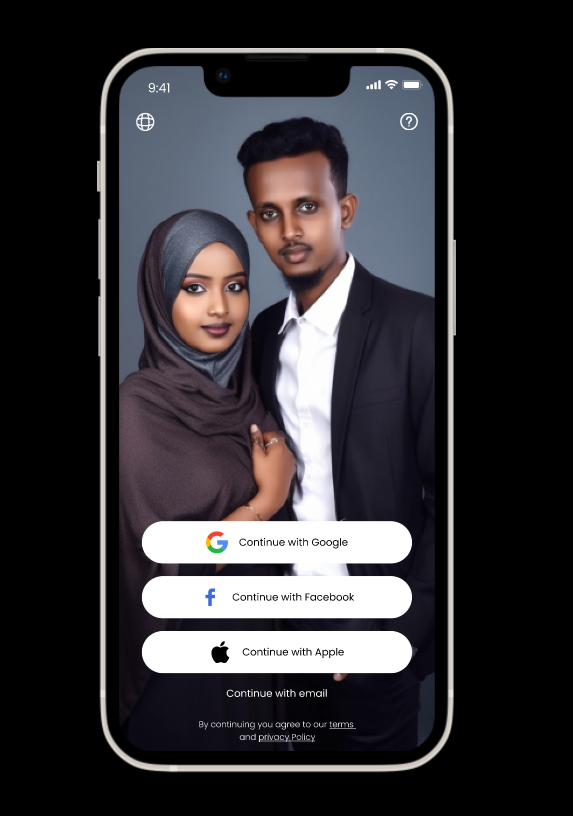
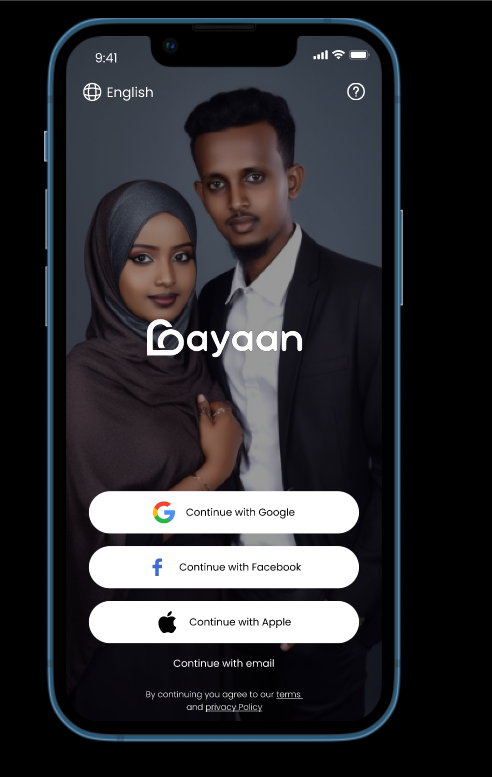
addmore

diff --git a/docs/WebAdmin.md b/docs/WebAdmin.md
@@ -1,0 +1,18 @@
+---
+sidebar_position: 102
+---
+
+# Admin Dhashboard (Web)
+
+
+## User Management:
+The functionality of the Admin dashboard includes:
+
+1. **User Management:**
+   - The Admin has the capability to promptly block or delete user accounts. There is also a search feature to efficiently manage user accounts without relying solely on user-reported issues.
+
+2. **Verification Badge Approval:**
+   - Admin can review and approve verification requests made by users. This involves examining identification documents, selfie photos alongside other profile images. An intuitive gallery or slider view is available for convenient verification.
+
+3. **Notification Center:**
+   - Admin can access a notification page where all notifications, such as reports about problematic users, are centralized for easy review and management.

diff --git a/docs/tutorial-basics/Authentication.md b/docs/tutorial-basics/Authentication.md
@@ -38,19 +38,7 @@ We have two option of singing up:
 ![Alt Text](./img/emailverify2.png)
 </details>
 
-:::note
-<details>
 
-   <summary>
-   The Figma design for the login screen lacks the presence of the Logo    
-   </summary>
-
-  [Download Logo](https://imgur.com/UHDY78W)
-
-   ![Alt Text](./img/logologin.png)
-
-</details>
-:::
 
 
 ## Logout & Device recognition

diff --git a/docs/profile/referal-link.md b/docs/profile/referal-link.md
@@ -1,0 +1,7 @@
+---
+sidebar_position: 29
+---
+
+# Referal Link
+
+The Gayaan App offers a referral link that rewards users with 250 points when they invite someone through the link, but the reward is granted only if the invitee downloads the app.

diff --git a/docs/profile/others.md b/docs/profile/others.md
@@ -2,4 +2,7 @@
 sidebar_position: 28
 ---
 
-# Other
+# Contact and Support
+
+1. Add contact and support for technical issue reporting.
+
